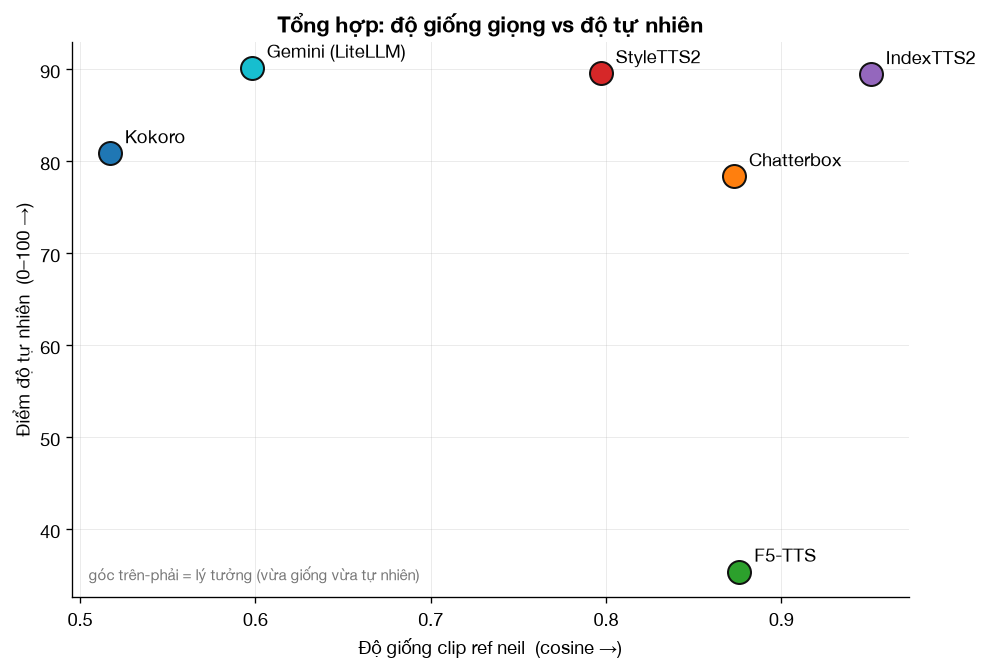
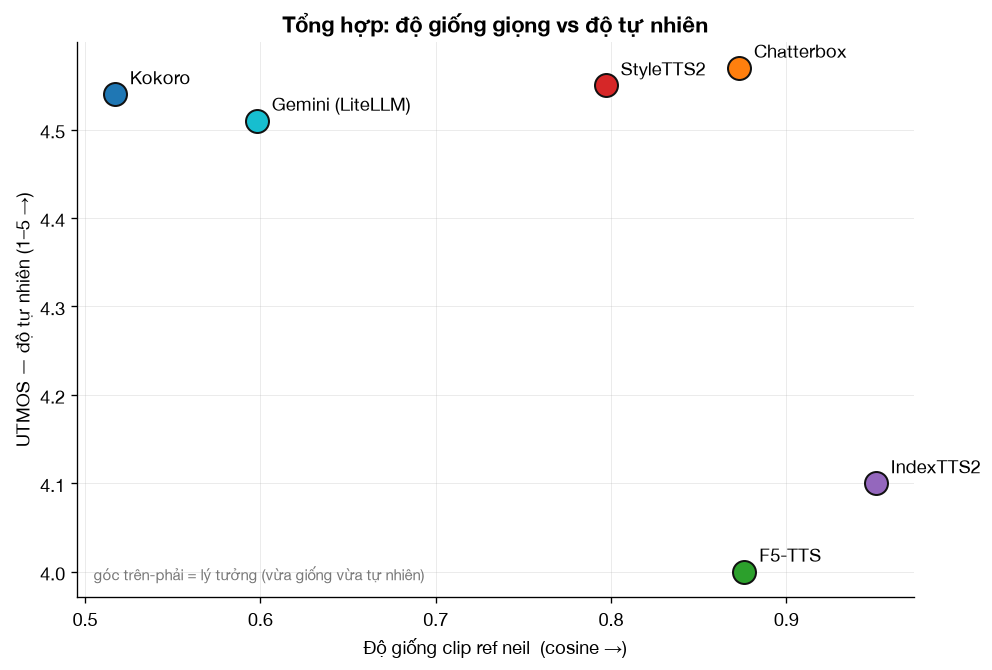
Fix critique #1: replace invalid /100 naturalness metric with UTMOS (human now 4.52, in-pack); scatter y-axis = UTMOS; demote old proxy as diagnostic-only

diff --git a/demo/index.html b/demo/index.html
@@ -84,7 +84,7 @@
 
   <div class="callout key"><div>
     <b>TL;DR</b> — Research so sánh <b>6 engine TTS</b> (5 open-source + Gemini) cho Athena, trên cùng kịch bản.<br>
-    • Tự nhiên nhất: <b>Gemini ≈ StyleTTS2 ≈ IndexTTS2</b><br>
+    • Tự nhiên (UTMOS): nhóm đầu ~4.5 <b>ngang giọng người</b> (StyleTTS2 / Kokoro / Chatterbox / Gemini); F5 &amp; IndexTTS2 thấp hơn<br>
     • Clone giống giọng nhất: <b>IndexTTS2</b><br>
     • Nhanh / nhẹ nhất: <b>Kokoro</b><br>
     <span class="sub" style="margin:0">Cuộn xuống để nghe trực tiếp, xem biểu đồ & cách điều khiển (thời lượng · cảm xúc · phụ đề&nbsp;.srt).</span>
@@ -157,17 +157,24 @@ Honestly, I did not expect the final results to be this good.
 Thank you for listening, and I hope you have a wonderful day.</pre><figure><img src="img/compare_scripts_waveforms.png" alt="Sóng 2 kịch bản cạnh nhau cho từng engine — trái: kịch bản 1, phải: kịch bản 2."/>
       <figcaption>Sóng 2 kịch bản cạnh nhau cho từng engine — trái: kịch bản 1, phải: kịch bản 2.</figcaption></figure></div></details>
 
-  <h2 data-toc="Độ tự nhiên">2) Độ tự nhiên — so với giọng người thật</h2>
-  <div class="callout"><div><b>Vì sao:</b> chấm điểm khách quan (ngữ điệu, cao độ, năng lượng…) và so trực tiếp với giọng người.
-    <b>→ Rút ra:</b> Gemini điểm cao nhất (90); nhưng metric phạt giọng người (dao động rộng) → phải nhìn số thô + nghe, đừng tin mỗi điểm tổng.</div></div>
-  <details class="card"><summary>Số liệu &amp; biểu đồ độ tự nhiên (bấm để mở)</summary><div class="dbody"><div class="sub">Điểm proxy 0–100 từ các chỉ số âm học (ngữ điệu, cao độ, năng lượng, timbre…).</div><table><tr><th>Engine</th><th>Điểm tự nhiên /100</th></tr><tr><td>Gemini 2.5 Pro (LiteLLM)</td><td>90.2</td></tr>
+  <h2 data-toc="Độ tự nhiên">2) Độ tự nhiên — UTMOS (MOS dự đoán)</h2>
+  <div class="callout"><div><b>Vì sao:</b> đo độ tự nhiên bằng thước đo hợp lệ. Bản đầu dùng proxy tự chế → chấm <b>giọng người 51.7 &lt; máy</b> (lỗi nặng), nên đã thay bằng <b>UTMOS</b> (mô hình dự đoán MOS chuẩn ngành).
+    <b>→ Rút ra:</b> nhóm đầu ~4.5 gồm cả <b>giọng người</b> (Chatterbox/StyleTTS2/Kokoro/Gemini ≈ người); <b>F5 & IndexTTS2 thấp hơn</b>. Chênh nhóm đầu là nhiễu (n=1).</div></div>
+  <div class="card"><div class="sub"><b>UTMOS</b> — mô hình dự đoán MOS (thang 1–5, cao = tự nhiên hơn), chuẩn thay cho người nghe. Điểm quan trọng: <b>giọng người thật lọt nhóm đầu (4.52)</b> ⇒ thước đo hợp lệ (khác hẳn proxy cũ chấm người 51.7).</div><table><tr><th>Engine</th><th>UTMOS (1–5)</th></tr><tr><td>Chatterbox</td><td>4.57</td></tr>
+<tr><td>StyleTTS2</td><td>4.55</td></tr>
+<tr><td>Kokoro</td><td>4.54</td></tr>
+<tr><td>Giọng gốc (người)</td><td>4.52</td></tr>
+<tr><td>Gemini 2.5 Pro (LiteLLM)</td><td>4.51</td></tr>
+<tr><td>IndexTTS2</td><td>4.10</td></tr>
+<tr><td>F5-TTS</td><td>4.00</td></tr></table><div class="note">Nhóm đầu (~4.5) chênh nhau trong khoảng nhiễu (mỗi engine n=1) → coi như <b>ngang nhau</b>; F5 & IndexTTS2 thấp hơn rõ. UTMOS là <i>dự đoán</i> — quyết định cuối vẫn nên xác nhận bằng MOS người nghe.</div></div>
+  <details class="card"><summary>Chỉ số mô tả tín hiệu (proxy /100 cũ + biểu đồ) — KHÔNG phải chất lượng (bấm để mở)</summary><div class="dbody"><div class="note"><b>Cảnh báo:</b> bảng proxy /100 dưới đây <b>bị lỗi</b> — nó chấm giọng người 51.7 &lt; máy, tức đo <b>độ đều tín hiệu</b> chứ KHÔNG phải chất lượng. Giữ lại chỉ để xem chỉ số thô, KHÔNG dùng để xếp hạng.</div><table><tr><th>Engine</th><th>Proxy /100 (không dùng xếp hạng)</th></tr><tr><td>Gemini 2.5 Pro (LiteLLM)</td><td>90.2</td></tr>
 <tr><td>StyleTTS2</td><td>89.6</td></tr>
 <tr><td>IndexTTS2</td><td>89.5</td></tr>
 <tr><td>Kokoro</td><td>80.9</td></tr>
 <tr><td>Chatterbox</td><td>78.4</td></tr>
 <tr><td>Giọng gốc (người)</td><td>51.7</td></tr>
-<tr><td>F5-TTS</td><td>35.4</td></tr></table><figure><img src="img/compare_to_original.png" alt="Từng chỉ số của mỗi engine (cột màu) so với GIỌNG GỐC (đường đứt đen). Cột càng gần đường đứt = càng giống người thật."/>
-      <figcaption>Từng chỉ số của mỗi engine (cột màu) so với GIỌNG GỐC (đường đứt đen). Cột càng gần đường đứt = càng giống người thật.</figcaption></figure></div></details>
+<tr><td>F5-TTS</td><td>35.4</td></tr></table><figure><img src="img/compare_to_original.png" alt="Chỉ số âm học mỗi engine vs giọng gốc — mang tính MÔ TẢ (diagnostic), không phải điểm chất lượng."/>
+      <figcaption>Chỉ số âm học mỗi engine vs giọng gốc — mang tính MÔ TẢ (diagnostic), không phải điểm chất lượng.</figcaption></figure></div></details>
 
   <h2 data-toc="Clone giọng">3) Clone giọng voiceover (neil) — cùng 1 giọng ref, 2 kịch bản</h2>
   <div class="callout"><div><b>Vì sao:</b> test nhân bản 1 giọng cụ thể từ clip mẫu; dùng 2 kịch bản (ngắn / đúng thoại ref) để kiểm độ tin cậy phép đo.
@@ -209,8 +216,8 @@ Thank you for listening, and I hope you have a wonderful day.</pre><figure><img 
   <h2 data-toc="Tổng hợp">4) Tổng hợp — giống giọng vs tự nhiên, và tốc độ</h2>
   <div class="callout"><div><b>Vì sao:</b> gộp 2 trục (giống giọng × tự nhiên) + tốc độ để chọn engine theo nhu cầu.
     <b>→ Rút ra:</b> IndexTTS2 cân bằng nhất; Gemini tự nhiên nhưng không giống (preset); F5 giống nhưng kém tự nhiên; Kokoro nhanh nhất.</div></div>
-  <details class="card"><summary>Biểu đồ đánh đổi &amp; thời gian tạo (bấm để mở)</summary><div class="dbody"><figure><img src="img/tradeoff_scatter.png" alt="Mỗi điểm là một engine. Trục ngang: độ giống clip ref neil (cosine); trục dọc: điểm tự nhiên (0–100). Góc trên-phải là lý tưởng."/>
-      <figcaption>Mỗi điểm là một engine. Trục ngang: độ giống clip ref neil (cosine); trục dọc: điểm tự nhiên (0–100). Góc trên-phải là lý tưởng.</figcaption></figure><table><tr><th>Engine</th><th>Thời gian tạo (giây, CPU)</th></tr><tr><td>Kokoro</td><td>12.7</td></tr>
+  <details class="card"><summary>Biểu đồ đánh đổi &amp; thời gian tạo (bấm để mở)</summary><div class="dbody"><figure><img src="img/tradeoff_scatter.png" alt="Mỗi điểm là một engine. Trục ngang: độ giống clip ref neil (cosine); trục dọc: UTMOS độ tự nhiên (1–5). Góc trên-phải là lý tưởng."/>
+      <figcaption>Mỗi điểm là một engine. Trục ngang: độ giống clip ref neil (cosine); trục dọc: UTMOS độ tự nhiên (1–5). Góc trên-phải là lý tưởng.</figcaption></figure><table><tr><th>Engine</th><th>Thời gian tạo (giây, CPU)</th></tr><tr><td>Kokoro</td><td>12.7</td></tr>
 <tr><td>StyleTTS2</td><td>29.5</td></tr>
 <tr><td>Chatterbox</td><td>38.0</td></tr>
 <tr><td>IndexTTS2</td><td>68.8</td></tr>

diff --git a/analysis/plots_unified.py b/analysis/plots_unified.py
@@ -28,7 +28,7 @@ REF = "#111111"
 # số liệu (đồng bộ, lấy từ các phép đo trước)
 SIM_NEIL = {"index": 0.951, "f5": 0.876, "chatterbox": 0.873, "styletts2": 0.797,
             "kokoro": 0.517, "litellm": 0.598}
-HUMAN = {"litellm": 90.2, "styletts2": 89.6, "index": 89.5, "kokoro": 80.9, "chatterbox": 78.4, "f5": 35.4}
+HUMAN = {"litellm": 4.51, "styletts2": 4.55, "index": 4.10, "kokoro": 4.54, "chatterbox": 4.57, "f5": 4.00}  # UTMOS 1-5
 
 plt.rcParams.update({
     "figure.facecolor": "white", "savefig.facecolor": "white", "savefig.dpi": 120,
@@ -136,7 +136,7 @@ def scatter(out):
         ax.scatter(x, y, s=190, color=COLORS[e], edgecolor=REF, lw=1.2, zorder=3)
         ax.annotate(LABEL[e], (x, y), textcoords="offset points", xytext=(9, 6), fontsize=11)
     ax.set_xlabel("Độ giống clip ref neil  (cosine →)")
-    ax.set_ylabel("Điểm độ tự nhiên  (0–100 →)")
+    ax.set_ylabel("UTMOS — độ tự nhiên (1–5 →)")
     ax.set_title("Tổng hợp: độ giống giọng vs độ tự nhiên")
     ax.text(0.02, 0.03, "góc trên-phải = lý tưởng (vừa giống vừa tự nhiên)",
             transform=ax.transAxes, fontsize=9, color="#777")